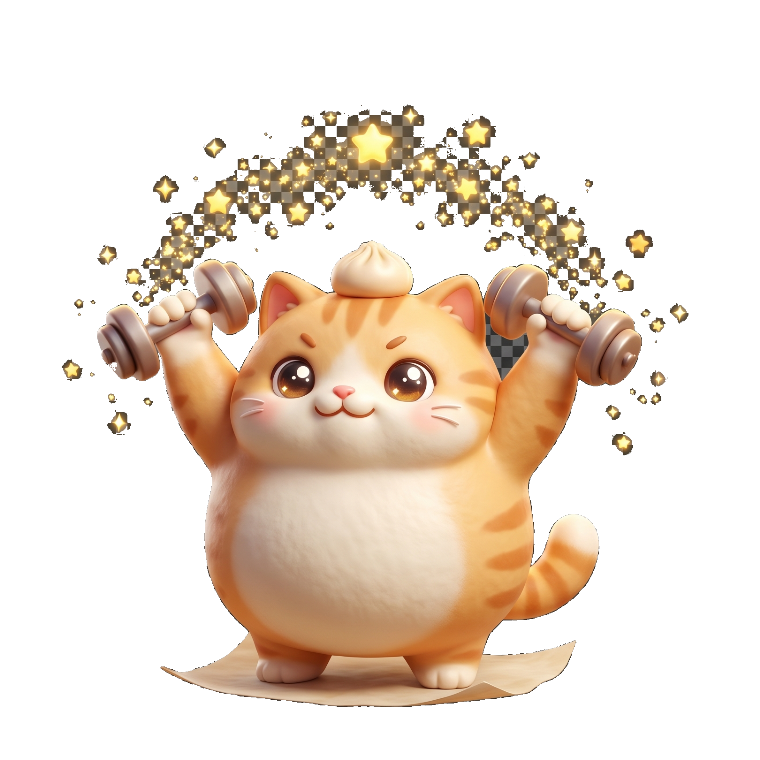
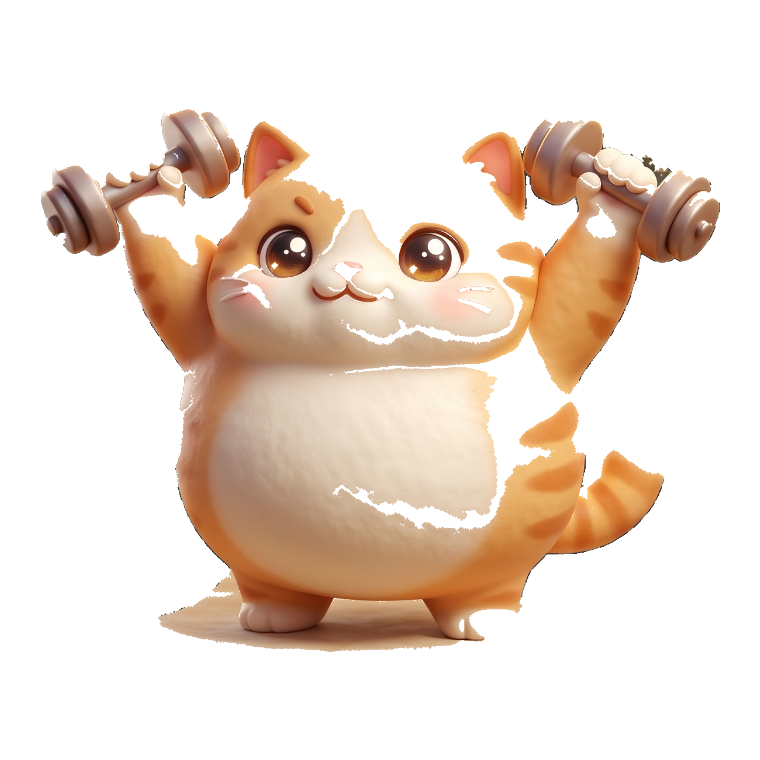
Fix mèo bánh bao: bỏ caro xám + chùm sao baked lỗi
- Tạo lại mascot_sq.png từ ảnh gốc: flood-fill + bỏ sao vàng + mở hình thái
  (erode/dilate) cắt sợi mảnh nối chùm hạt → hết caro xám giữa, giữ 2 tạ
- Lấp lánh giờ hoàn toàn bằng CSS (sao động), không còn sao in chết
- Bump SW cache v17

diff --git a/sw.js b/sw.js
@@ -1,5 +1,5 @@
 // MèoFit service worker — chạy offline. Bump CACHE khi đổi nội dung để cập nhật.
-const CACHE = 'meofit-v16';
+const CACHE = 'meofit-v17';
 const SHELL = ['./', './index.html', './manifest.webmanifest', './logo.png', './mascot_sq.png', './lift-sprite.png', './icon-192.png', './icon-512.png', './icon-512-maskable.png', './icon-180.png'];
 
 self.addEventListener('install', e => {